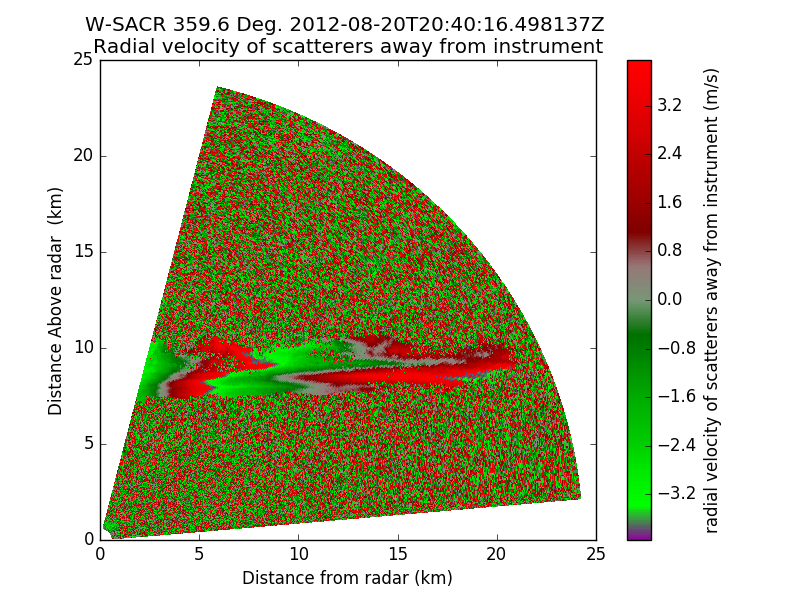
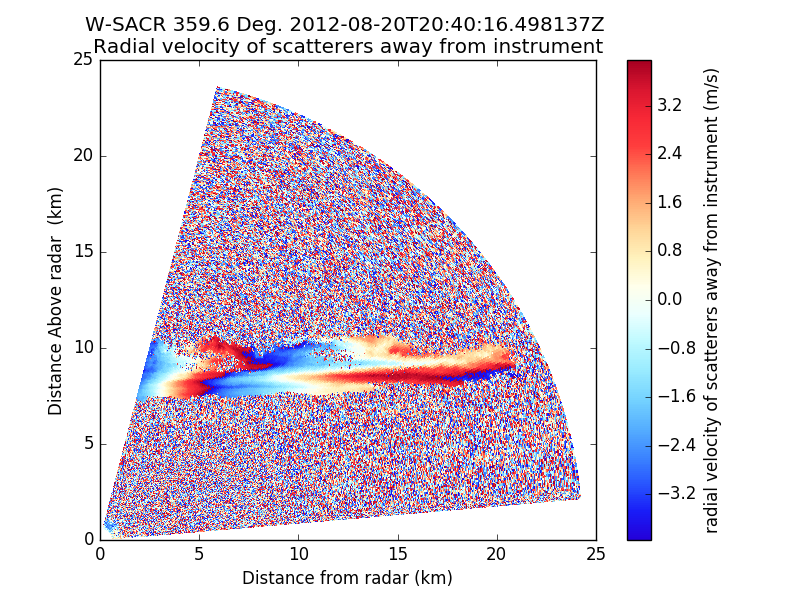
Change velocity colormap

diff --git a/plot_xsapr_fields.py b/plot_xsapr_fields.py
@@ -10,7 +10,7 @@ fields_to_plot = {
     'reflectivity': ('pyart_NWSRef', -30, 75),
     'corrected_reflectivity': ('pyart_NWSRef', -30, 75),
     'total_power': ('pyart_NWSRef', -30, 75),
-    'velocity': ('pyart_NWSVel', -nyquist, nyquist),
+    'velocity': ('pyart_BuDRd18', -nyquist, nyquist),
     'spectrum_width': ('pyart_NWS_SPW', 0, nyquist),
     'normalized_coherent_power': ('pyart_Carbone17', 0.0, 1.0),
     'differential_reflectivity': ('pyart_RefDiff', 0, 8),

diff --git a/plot_wsacr_fields.py b/plot_wsacr_fields.py
@@ -8,7 +8,7 @@ nyquist = radar.instrument_parameters['nyquist_velocity']['data'][0]
 
 fields_to_plot = {
     'reflectivity': ('pyart_NWSRef', -30, 75),
-    'mean_doppler_velocity': ('pyart_NWSVel', -nyquist, nyquist),
+    'mean_doppler_velocity': ('pyart_BuDRd18', -nyquist, nyquist),
     'spectral_width': ('pyart_NWS_SPW', 0, nyquist),
     'snr': ('pyart_Carbone17', -20, 30),
     'linear_depolarization_ratio': ('pyart_SCook18', -40, 0),

diff --git a/plot_nexrad_fields.py b/plot_nexrad_fields.py
@@ -8,7 +8,7 @@ nyquist = radar.instrument_parameters['nyquist_velocity']['data'][1]
 
 fields_to_plot = {
     'reflectivity': ('pyart_NWSRef', -30, 75),
-    'velocity': ('pyart_NWSVel', -nyquist, nyquist),
+    'velocity': ('pyart_BuDRd18', -nyquist, nyquist),
     'spectrum_width': ('pyart_NWS_SPW', 0, nyquist),
     'differential_reflectivity': ('pyart_RefDiff', 0, 8),
     'cross_correlation_ratio': ('pyart_RefDiff', 0.5, 1.05),

diff --git a/plot_csapr_fields.py b/plot_csapr_fields.py
@@ -10,7 +10,7 @@ for field in radar.fields.keys():
 
 fields_to_plot = {
     'reflectivity': ('pyart_NWSRef', -30, 75),
-    'velocity': ('pyart_NWSVel', -nyquist, nyquist),
+    'velocity': ('pyart_BuDRd18', -nyquist, nyquist),
     'spectrum_width': ('pyart_NWS_SPW', 0, nyquist),
     'normalized_coherent_power': ('pyart_Carbone17', 0.0, 1.0),
     'differential_reflectivity': ('pyart_RefDiff', 0, 8),

diff --git a/defaults_table.md b/defaults_table.md
@@ -6,11 +6,11 @@
 | total_power                           |   pyart_NWSRef            |   -30       |   75          | NEXRAD limits             | Yes       |
 | signal_to_noise_ratio                 |   pyart_Carbone17         |   -20       |   30          |                           | Yes       |
 |                                       |                           |             |               |                           |           |
-| velocity                              |   pyart_NWSVel            |   -nyq      |   nyq         | +/- Nyquist velocity      | Yes       |
-| corrected_velocity                    |   pyart_NWSVel            |   -nyq      |   nyq         | +/- Nyquist velocity      | No        |
-| eastward_wind_component               |   pyart_NWSVel            |   -nyq      |   nyq         | +/- Nyquist velocity      | No        |
-| northward_wind_component              |   pyart_NWSVel            |   -nyq      |   nyq         | +/- Nyquist velocity      | No        |
-| vertical_wind_component               |   pyart_NWSVel            |   -nyq      |   nyq         | +/- Nyquist velocity      | No        |
+| velocity                              |   pyart BuDRd18           |   -nyq      |   nyq         | +/- Nyquist velocity      | Yes       |
+| corrected_velocity                    |   pyart BuDRd18           |   -nyq      |   nyq         | +/- Nyquist velocity      | No        |
+| eastward_wind_component               |   pyart BuDRd18           |   -nyq      |   nyq         | +/- Nyquist velocity      | No        |
+| northward_wind_component              |   pyart BuDRd18           |   -nyq      |   nyq         | +/- Nyquist velocity      | No        |
+| vertical_wind_component               |   pyart BuDRd18           |   -nyq      |   nyq         | +/- Nyquist velocity      | No        |
 |                                       |                           |             |               |                           |           |
 | spectrum_width                        |   pyart_NWS_SPW           |   0         |   nyq         |                           | Yes       |
 |                                       |                           |             |               |                           |           |
